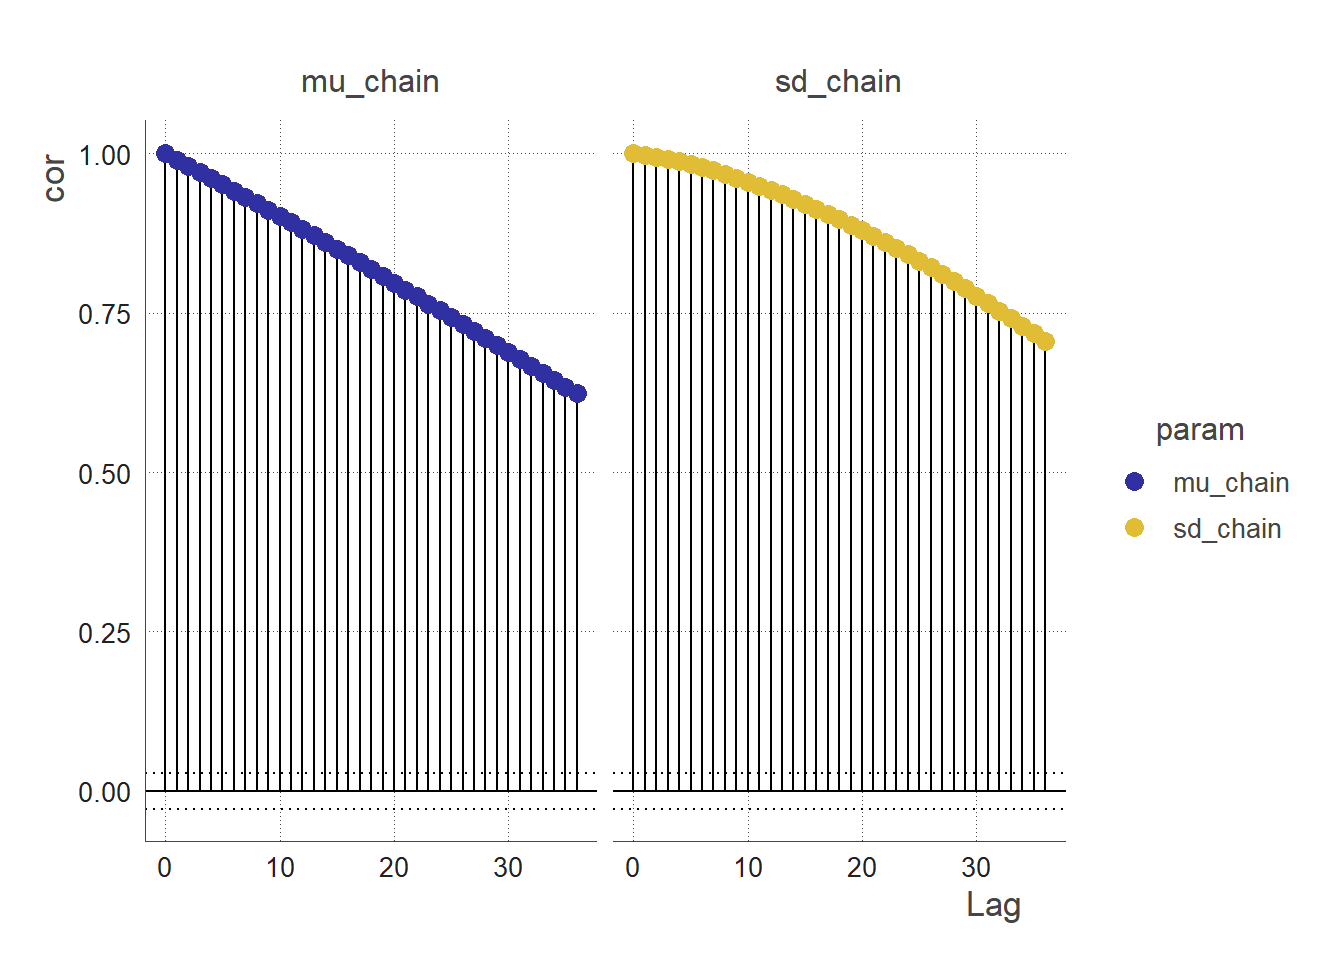
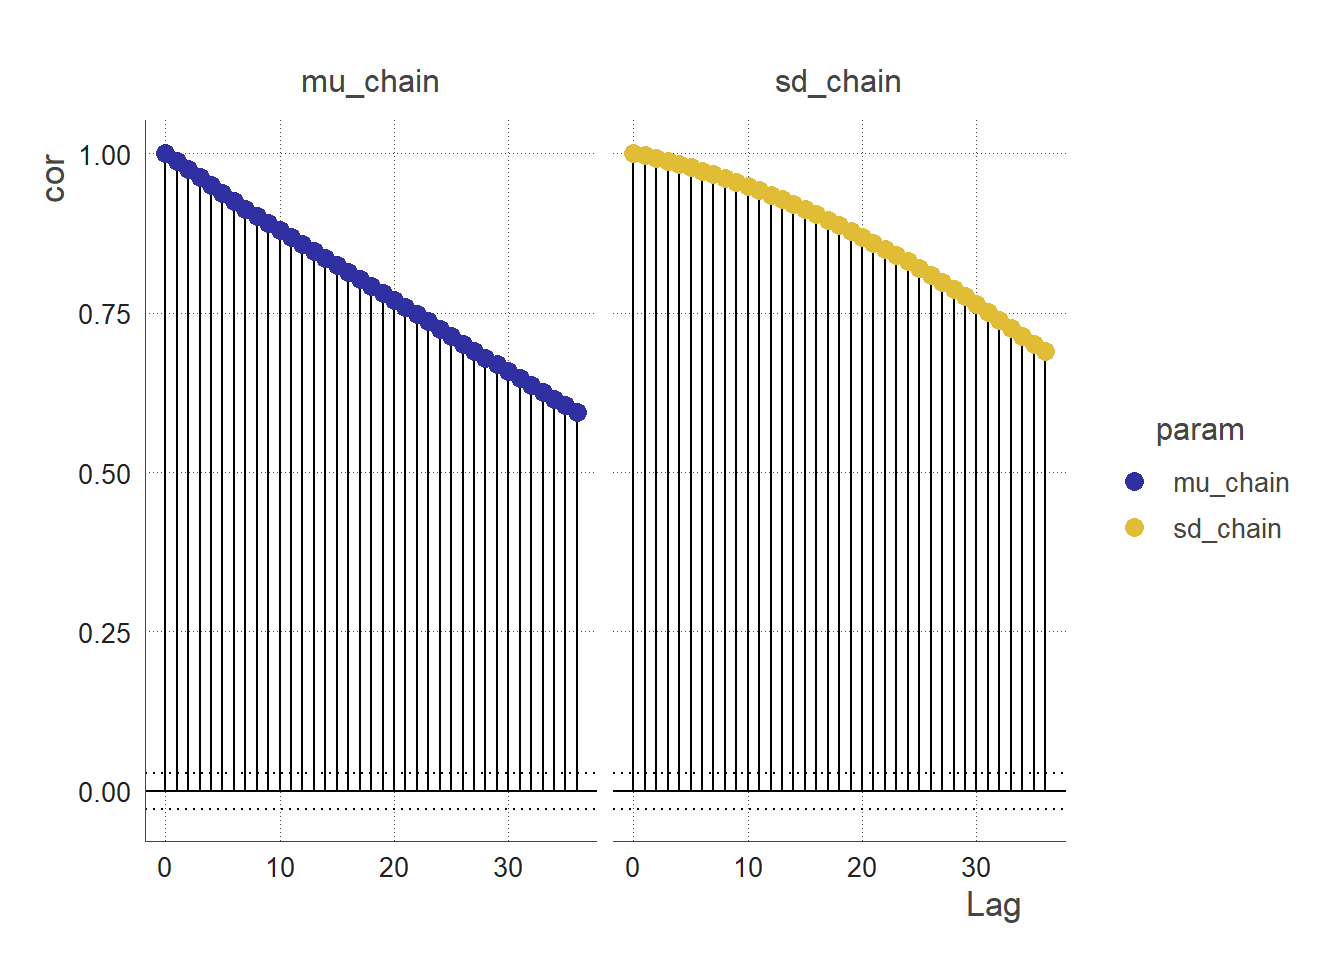
editing gitlink for tuto

Changed region(s): [[0.1562, 0.1875, 0.4375, 0.4375], [0.5, 0.1562, 0.7812, 0.375], [0.125, 0.1562, 0.1562, 0.1875]]

diff --git a/content/project/TUTO_MCMC/cpp_files/mcmc.cpp b/content/project/TUTO_MCMC/cpp_files/mcmc.cpp
@@ -1,0 +1,82 @@
+#include <Rcpp.h>
+#include "cpp_model.h"
+#include "move.h"
+using namespace Rcpp;
+
+// [[Rcpp::export]]
+Rcpp::DataFrame mcmc(int n_iter, 
+                     double init_mu, 
+                     double init_sd, 
+                     double sd_proposal_mu,
+                     double sd_proposal_sd,
+                     Rcpp::NumericVector data, 
+                     double prior_mu, 
+                     double prior_sd )
+{
+  
+  // Vectors to store the chain of explored parameters & initialize the first elements of the chains with the provided initial values
+  NumericVector mu_chain(n_iter);
+  mu_chain[0] = init_mu;
+  NumericVector sd_chain(n_iter);
+  sd_chain[0] = init_sd;
+  
+  // Log-likelihoods
+  NumericVector loglike_chain(n_iter);
+  loglike_chain[0] = log_likelihood(data, mu_chain[0], sd_chain[0]);
+  
+  //Log-posterior
+  NumericVector logpost_chain(n_iter);
+  logpost_chain[0] = log_posterior(data, mu_chain[0],sd_chain[0],prior_mu, prior_sd);
+  
+  //Log-prior
+  NumericVector logprior_chain(n_iter);
+  logprior_chain[0] = log_prior_total(mu_chain[0], sd_chain[0], prior_mu, prior_sd);
+  
+  
+  // Vectors to store the acceptance rate for the mu and sd parameters
+  NumericVector accept_mu(n_iter);
+  NumericVector accept_sd(n_iter);
+  
+  for(int k = 0; k < n_iter-1; k++)
+  {
+    Rcpp::Rcout << "iteration: " << k << std::endl;
+    //mu
+    Rcpp::List tmp = move_param("mu",
+                                mu_chain[k],
+                                        sd_chain[k],
+                                                sd_proposal_mu,
+                                                data, 
+                                                prior_mu, 
+                                                prior_sd);
+    mu_chain[k+1] = tmp["updated_param"];
+    accept_mu[k+1] = tmp["accept"];
+    
+    //sd
+    tmp = move_param("sd",
+                     sd_chain[k],
+                             mu_chain[k+1],
+                                     sd_proposal_sd,
+                                     data, 
+                                     prior_mu, 
+                                     prior_sd);
+    
+    sd_chain[k+1] = tmp["updated_param"];
+    accept_sd[k+1] = tmp["accept"];
+    
+    // update log-prior/likelihood/posterior
+    logprior_chain[k+1] = log_prior_total(mu_chain[k+1], sd_chain[k+1], prior_mu, prior_sd);
+    loglike_chain[k+1] = log_likelihood(data, mu_chain[k+1], sd_chain[k+1]);
+    logpost_chain[k+1] = log_posterior(data, mu_chain[k+1], sd_chain[k+1], prior_mu, prior_sd);
+
+  }
+  // Create the output data frame
+  DataFrame out = DataFrame::create(Named("iter") =  seq(1,n_iter),
+                                    Named("mu_chain") = mu_chain,
+                                    Named("sd_chain") = sd_chain,
+                                    Named("accept_mu") = accept_mu,
+                                    Named("accept_sd") = accept_sd,
+                                    Named("logprior_chain") = logprior_chain,
+                                    Named("loglike_chain") = loglike_chain,
+                                    Named("logpost_chain") = logpost_chain);
+  return out;
+}

diff --git a/content/project/TUTO_MCMC/cpp_files/move.cpp b/content/project/TUTO_MCMC/cpp_files/move.cpp
@@ -1,0 +1,75 @@
+
+#include <Rcpp.h>
+#include "cpp_model.h"
+using namespace Rcpp;
+
+// [[Rcpp::export]]
+Rcpp::List move_param(std::string moving,
+                      double curr_param,
+                      double fixed_param,
+                      double sd_proposal,
+                      Rcpp::NumericVector dat,
+                      double prior_mu,
+                      double prior_sd) 
+{
+  
+  // printing info
+  Rcpp::Rcout << "moving " << moving << std::endl;
+  Rcpp::Rcout << "curr_param: " << curr_param << std::endl;
+  Rcpp::Rcout << "fixed_param: " << fixed_param << std::endl;
+  
+  
+  // Sample a new value for the parameter from a normal distribution with mean equal to the current parameter value and standard deviation equal to sd_proposal
+  double new_param = R::rnorm(curr_param, sd_proposal);
+  
+  // Print out the new value of the parameter
+  Rcpp::Rcout << "new_param: " << new_param << std::endl;
+  
+  // Declare ratio_post outside if{} statement to compile
+  double ratio_post;
+  
+  // Calculate the ratio of the posterior probabilities for the new and current values of the parameter
+  if(moving == "mu"){
+    
+    ratio_post = log_posterior(dat, new_param, fixed_param, prior_mu, prior_sd) - log_posterior(dat, curr_param, fixed_param, prior_mu, prior_sd);
+    
+  } else if(moving == "sd") {
+    
+    ratio_post = log_posterior(dat, fixed_param, new_param, prior_mu, prior_sd) - log_posterior(dat, fixed_param, curr_param, prior_mu, prior_sd);
+    
+  }else{
+    
+    ratio_post = R_NegInf;
+    
+  }
+  
+  // Initialize the correction term to 0 (0 because our proposal distribution is symetrical)
+  double correction = 0.0;
+  
+  // Calculate the acceptance probability for the new value of the parameter  
+  double p_accept = ratio_post + correction;
+  Rcpp::Rcout << "p_accept: " << p_accept << std::endl;
+  
+  // Sample a uniform random value between 0 and 1
+  double tmp = log(Rcpp::runif(1)[0]);
+  
+  // If the random value is less than the acceptance probability, accept the new value of the parameter   
+  double updated_param;
+  double accept;
+  if(tmp < p_accept) 
+  {
+    updated_param = new_param;
+    accept = 1;
+    Rcpp::Rcout << "accept" << std::endl << std::endl;
+    
+  }else // reject
+  {
+    updated_param = curr_param; 
+    accept = 0;
+    Rcpp::Rcout << "reject" << std::endl << std::endl;
+  }
+  
+  // Return a List containing the updated value of the parameter and a binary value indicating whether the new value was accepted or rejected
+  return Rcpp::List::create(Rcpp::Named("updated_param") = updated_param,
+                            Rcpp::Named("accept") = accept);
+}

diff --git a/content/project/TUTO_MCMC/cpp_files/cpp_model.cpp b/content/project/TUTO_MCMC/cpp_files/cpp_model.cpp
@@ -1,0 +1,47 @@
+//https://teuder.github.io/rcpp4everyone_en/220_dpqr_functions.html
+
+#include <Rcpp.h>
+
+using namespace Rcpp;
+
+//LIKELIHOOD
+
+// [[Rcpp::export]]
+double log_likelihood(NumericVector dat, double mu, double sd) 
+{
+  if(mu<=0){
+    return (R_NegInf);
+  } else{
+    return sum(Rcpp::dgamma(dat, std::pow(mu/sd, 2), std::pow(sd, 2) / mu, true ));
+  }
+}
+
+
+//PRIOR
+
+double log_prior_mu(double mu, double prior_mu, double prior_sd) 
+{
+  if(mu<0){
+    return (R_NegInf);
+  } // The function returns a probability of 0 if the mean is negative
+  else{
+    return R::dnorm(mu, prior_mu, prior_sd, TRUE); 
+  }
+}
+
+
+double log_prior_sd(double sd){
+  return R::dexp(sd, 1.0/1000.0, TRUE);
+}
+
+double log_prior_total(double mu, double sd, double prior_mu, double prior_sd)
+{
+  return (log_prior_mu(mu, prior_mu, prior_sd) + log_prior_sd(sd));
+}
+
+// POSTERIOR
+// [[Rcpp::export]]
+double log_posterior(Rcpp::NumericVector dat, double mu, double sd, double prior_mu, double prior_sd)
+{
+  return( log_likelihood(dat, mu, sd) + log_prior_total(mu, sd, prior_mu, prior_sd) );
+}

diff --git a/content/project/TUTO_MCMC/cpp_files/cpp_model.h b/content/project/TUTO_MCMC/cpp_files/cpp_model.h
@@ -1,0 +1,14 @@
+#ifndef CPP_MODEL_H
+#define CPP_MODEL_H
+
+#include <Rcpp.h>
+
+using namespace Rcpp;
+
+double log_likelihood(NumericVector dat, double mu, double sd);
+double log_prior_mu(double mu, double prior_mu, double prior_sd);
+double log_prior_sd(double sd);
+double log_prior_total(double mu, double sd, double prior_mu, double prior_sd);
+double log_posterior(Rcpp::NumericVector dat, double mu, double sd, double prior_mu, double prior_sd);
+
+#endif

diff --git a/content/project/TUTO_MCMC/cpp_files/mcmc.h b/content/project/TUTO_MCMC/cpp_files/mcmc.h
@@ -1,0 +1,11 @@
+#ifndef MCMC_H
+#define MCMC_H
+
+#include <Rcpp.h>
+
+using namespace Rcpp;
+
+DataFrame mcmc(int n_iter, double init_mu, double init_sd, double sd_proposal_mu, double sd_proposal_sd, Rcpp::NumericVector dat, double prior_mu, double prior_sd);
+
+
+#endif

diff --git a/content/project/TUTO_MCMC/cpp_files/move.h b/content/project/TUTO_MCMC/cpp_files/move.h
@@ -1,0 +1,11 @@
+
+#ifndef MOVE_H
+#define MOVE_H
+
+#include <Rcpp.h>
+
+using namespace Rcpp;
+
+List move_param(std::string moving, double curr_param, double fixed_param, double sd_proposal, Rcpp::NumericVector dat, double prior_mu, double prior_sd);
+
+#endif

diff --git a/content/project/TUTO_MCMC/index.md b/content/project/TUTO_MCMC/index.md
@@ -8,7 +8,7 @@ links:
 - icon: github
   icon_pack: fab
   name: .Rmd file
-  url: https://github.com/CyGei/mcmcTuto/blob/main/step_by_step.Rmd
+  url: https://github.com/CyGei/Blogdown/tree/main/content/project/TUTO_MCMC
 
 image:
   caption: 'Thomas Bayes, AI generated'
@@ -602,12 +602,12 @@ head(output)
     ## # A tibble: 6 × 8
     ##    iter mu_chain sd_chain accept_mu accept_sd logprior_chain loglike_c…¹ logpo…²
     ##   <int>    <dbl>    <dbl>     <dbl>     <dbl>          <dbl>       <dbl>   <dbl>
-    ## 1     1     5        1            0         0          -994.      -7039.  -8033.
-    ## 2     2     4.94     1            1         0          -994.      -6694.  -7688.
-    ## 3     3     4.93     1            1         0          -994.      -6648.  -7642.
-    ## 4     4     4.93     1.09         0         1         -1083.      -5707.  -6790.
-    ## 5     5     4.91     1.09         1         0         -1083.      -5650.  -6733.
-    ## 6     6     4.89     1.13         1         1         -1123.      -5228.  -6350.
+    ## 1     1     5        1            0         0          -994.      -7000.  -7994.
+    ## 2     2     4.94     1.09         1         1         -1080.      -5754.  -6834.
+    ## 3     3     4.94     1.09         0         1         -1085.      -5707.  -6792.
+    ## 4     4     4.91     1.09         1         0         -1085.      -5562.  -6647.
+    ## 5     5     4.91     1.10         0         1         -1095.      -5471.  -6566.
+    ## 6     6     4.83     1.14         1         1         -1130.      -4910.  -6040.
     ## # … with abbreviated variable names ¹loglike_chain, ²logpost_chain
 
 ## Analysing the MCMC output
@@ -772,8 +772,8 @@ clean_chain(output, thinning = 50, burnin = 200) %>%
     ## # A tibble: 2 × 5
     ##   param     mean lower95 upper95 truth
     ##   <chr>    <dbl>   <dbl>   <dbl> <dbl>
-    ## 1 mu_chain 2.14    2.13    2.14   2.14
-    ## 2 sd_chain 0.116   0.112   0.121  0.12
+    ## 1 mu_chain 2.14    2.14    2.15   2.14
+    ## 2 sd_chain 0.113   0.109   0.119  0.12
 
 A 95% credible interval is a range of values that has a 95% probability of containing the true value of a parameter.
 
